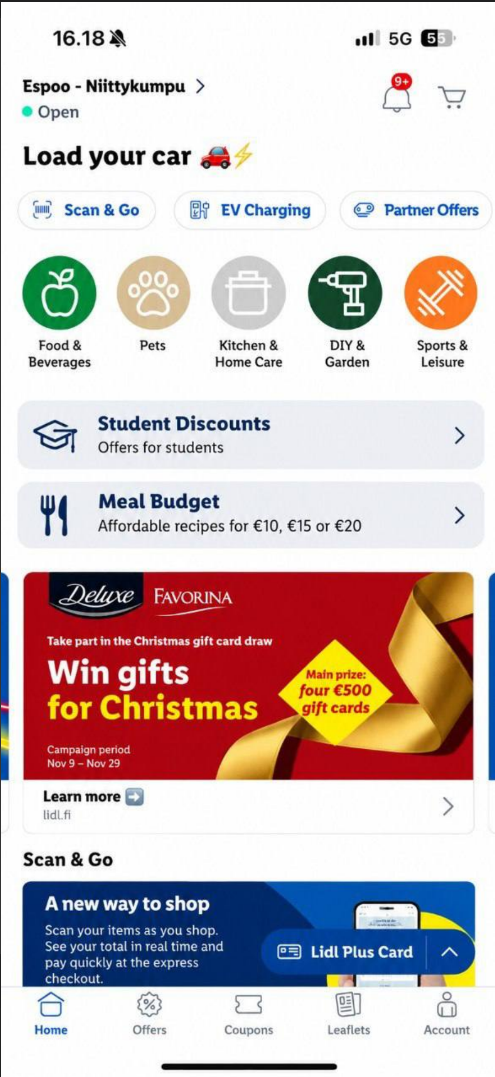
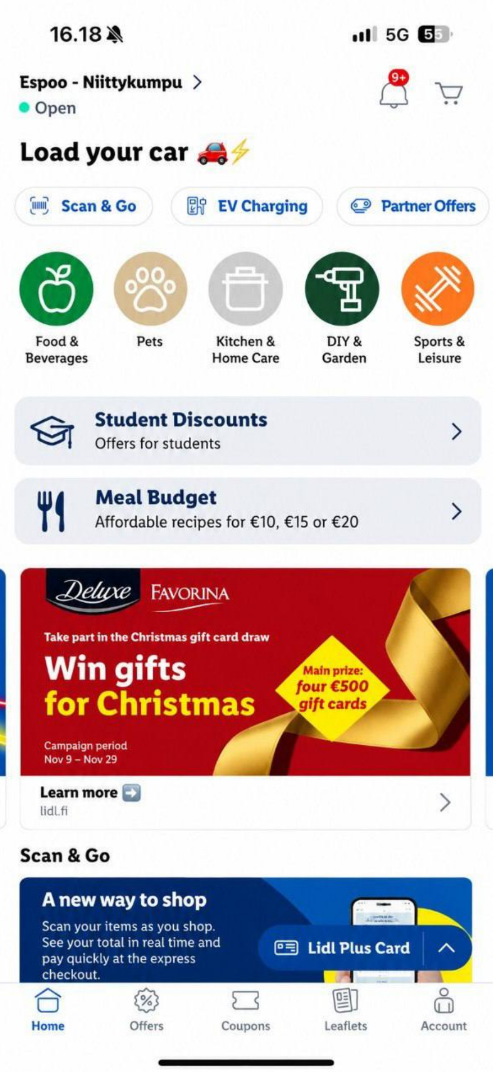
bmc

diff --git a/index.html b/index.html
@@ -63,7 +63,23 @@
                 <img src="images/prototype2.png" alt="Prototype2" class="prototype-image">
                 <img src="images/prototype3.png" alt="Prototype3" class="prototype-image">
             </div>
-        </section>         
+        </section>
+        
+        <section>
+            <h2>Feedback</h2>
+
+            <h3>Idea Feedback</h3>
+            <p>The tester suggested adding a dedicated student category to improve usability. The feedback also highlighted the need for student-focused discounts, products recommendations and student-specific LIDL-Plus offers.</p>
+            <p>It was also suggested to include recipe filters for different dieatery preferences and needs, such as vegetarian, vegan, pescatarian, gluten-free and diabetes-friendly options.</p>
+
+            <h3>Prototype Feedback</h3>
+            <p>The tester responded positively to the prototype and stated that it exceeded expectations. No improvements were suggested.</p>
+        </section>
+
+        <section>
+            <h2>Business Model Canvas</h2>
+            <img src="images/Business_Model_Canvas.png" alt="Business Model Canvas" class="portfolio-image">
+        </section>
 
 
     </main>
